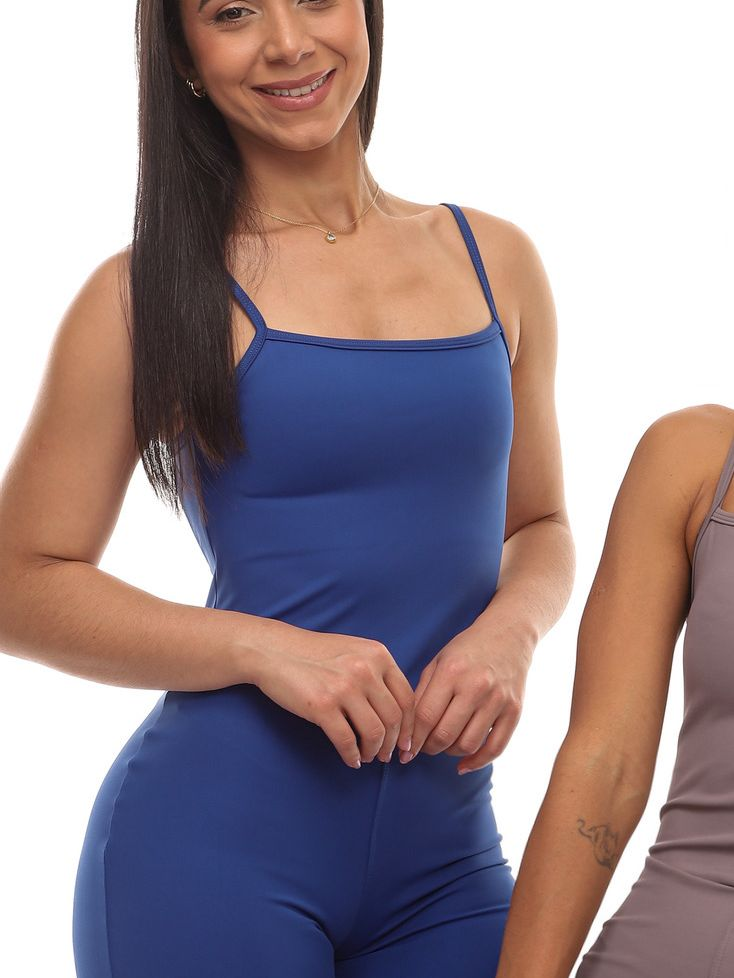
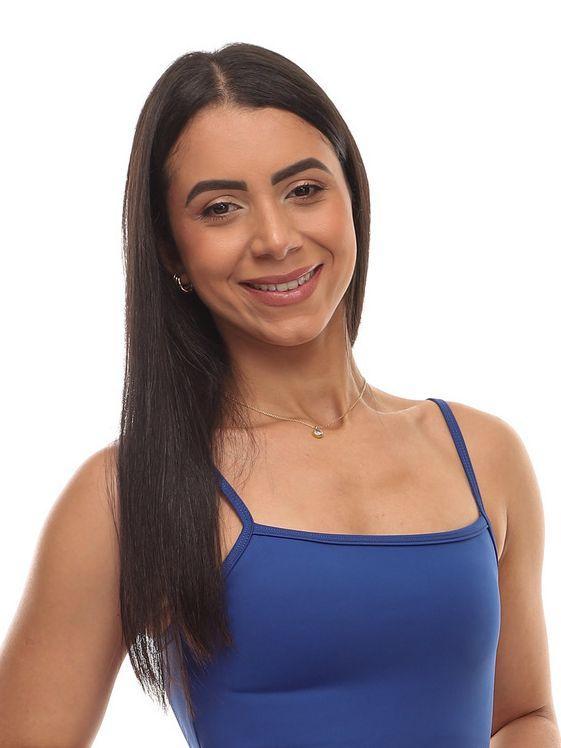
Photo review: keep faces in frame and remove partial second models
- Recrop product photos so every first photo shows the model's face and
  no half of another model (Bloom, Lumi, Legging Sculpt, Top Essential,
  Calça Flare, Shorts Flow/Breeze, Essence); Macacão Curve uses the full
  duo since the models touch in the original
- Category header photos get a separate mobile framing (by the head)
- Blusas category circle shows the face
- Zoom collage: tiles framed by the head, stage starts below the fixed
  header, final frame uses a photo with the face and room for the text
- Smaller WhatsApp button on mobile
- Instagram: replace the book-cover and cut-bag photos
- Nuvemshop kit images updated to match

Claude-Session: https://claude.ai/code/session_01CM8Lr2sgJyQv6W78io8jTd

diff --git a/cavelle/public/assets/css/style.css b/cavelle/public/assets/css/style.css
@@ -868,7 +868,7 @@ body.trava { overflow: hidden; }
   .compra-fixa div { flex: 1; min-width: 0; font-size: 12px; }
   .compra-fixa b { font-weight: 500; display: block; font-size: 13px; }
   .compra-fixa .btn { min-height: 46px; padding: 0 22px; }
-  body.tem-compra-fixa .whats-fixo { bottom: 84px; }
+  body.tem-compra-fixa .whats-fixo { bottom: 80px; }
 
   .rapida { grid-template-columns: 110px 1fr; gap: 16px; }
   .modal { align-items: flex-end; padding: 0; }
@@ -882,7 +882,8 @@ body.trava { overflow: hidden; }
   .resumo-pedido { position: static; order: -1; }
   .campos .c2, .campos .c3, .campos .c4 { grid-column: span 3; }
   .busca__resultados { grid-template-columns: repeat(3, 1fr); gap: 12px; }
-  .whats-fixo { width: 50px; height: 50px; right: 16px; bottom: 16px; }
+  .whats-fixo { width: 44px; height: 44px; right: 12px; bottom: 14px; }
+  .whats-fixo svg { width: 22px; height: 22px; }
 }
 
 @media (max-width: 420px) {
@@ -999,7 +1000,7 @@ body.trava { overflow: hidden; }
   .js .zoom-parallax { display: block; position: relative; height: 300vh; background: var(--bege-claro); --p: 0; }
   .js .lifestyle--alternativa { display: none; }
 }
-.zoom__palco { position: sticky; top: 0; height: 100vh; overflow: hidden; }
+.zoom__palco { position: sticky; top: calc(var(--altura-faixa) + var(--altura-header)); height: calc(100vh - var(--altura-faixa) - var(--altura-header)); overflow: hidden; }
 .zoom__camada {
   position: absolute; inset: 0; display: flex; align-items: center; justify-content: center;
   transform: scale(calc(1 + var(--p) * (var(--k) - 1)));
@@ -1088,11 +1089,12 @@ body.trava { overflow: hidden; }
 }
 .cabeca-pagina--foto .cabeca-pagina__texto p:not(.trilha) { margin-left: 0; }
 .cabeca-pagina__foto { margin: 0; aspect-ratio: 4 / 5; max-height: 520px; overflow: hidden; background: var(--bege); contain: paint; }
-.cabeca-pagina__foto img { width: 100%; height: 100%; object-fit: cover; mix-blend-mode: multiply; }
+.cabeca-pagina__foto img { width: 100%; height: 100%; object-fit: cover; object-position: var(--pos-d, 50% 30%); mix-blend-mode: multiply; }
 @media (max-width: 900px) {
   .cabeca-pagina--foto { grid-template-columns: 1fr; gap: 22px; text-align: center; }
   .cabeca-pagina--foto .cabeca-pagina__texto p:not(.trilha) { margin-left: auto; }
   .cabeca-pagina__foto { order: -1; aspect-ratio: 16 / 10; margin: 0 calc(var(--gutter) * -1); max-height: none; }
+  .cabeca-pagina__foto img { object-position: var(--pos-m, 50% 10%); }
 }
 
 /* ── Quem Somos: abertura dividida, texto e retrato ── */

diff --git a/cavelle/public/index.html b/cavelle/public/index.html
@@ -155,12 +155,12 @@
     <!-- ── BANNER LIFESTYLE: Zoom Parallax (desktop) ─────── -->
     <section class="zoom-parallax" aria-labelledby="t-zoom" data-zoom>
       <div class="zoom__palco">
-        <div class="zoom__camada" style="--k:4"><div class="zoom__img z1"><img src="assets/img/lifestyle/zoom-centro.jpg" alt="Macaquinho Aura rosa com costas abertas" loading="lazy"></div></div>
-        <div class="zoom__camada" style="--k:5"><div class="zoom__img z2"><img src="assets/img/editorial/ed-duo-preto-marrom.jpg" alt="" loading="lazy" style="object-position:50% 28%"></div></div>
+        <div class="zoom__camada" style="--k:4"><div class="zoom__img z1"><img src="assets/img/lifestyle/zoom-centro.jpg" alt="Mulher sentada com camisa branca sobre macaquinho preto CAVELLE" loading="lazy" style="object-position:60% 40%"></div></div>
+        <div class="zoom__camada" style="--k:5"><div class="zoom__img z2"><img src="assets/img/editorial/ed-duo-preto-marrom.jpg" alt="" loading="lazy" style="object-position:50% 6%"></div></div>
         <div class="zoom__camada" style="--k:6"><div class="zoom__img z3"><img src="assets/img/editorial/ed-retrato.jpg" alt="" loading="lazy" style="object-position:50% 20%"></div></div>
         <div class="zoom__camada" style="--k:5"><div class="zoom__img z4"><img src="assets/img/editorial/duo-azul-cinza.jpg" alt="" loading="lazy" style="object-position:50% 32%"></div></div>
         <div class="zoom__camada" style="--k:6"><div class="zoom__img z5"><img src="assets/img/editorial/ed-leitura.jpg" alt="" loading="lazy" style="object-position:50% 30%"></div></div>
-        <div class="zoom__camada" style="--k:8"><div class="zoom__img z6"><img src="assets/img/editorial/duo-leggings.jpg" alt="" loading="lazy" style="object-position:50% 50%"></div></div>
+        <div class="zoom__camada" style="--k:8"><div class="zoom__img z6"><img src="assets/img/editorial/duo-leggings.jpg" alt="" loading="lazy" style="object-position:50% 12%"></div></div>
         <div class="zoom__camada" style="--k:9"><div class="zoom__img z7"><img src="assets/img/produtos/macaquinho-bloom-rosa-1.jpg" alt="" loading="lazy" style="object-position:50% 28%"></div></div>
         <div class="zoom__texto">
           <p class="sobretitulo">CAVELLE</p>

diff --git a/cavelle/public/assets/js/shop.js b/cavelle/public/assets/js/shop.js
@@ -26,21 +26,23 @@
   document.title = `${titulo} | CAVELLE`;
 
   // Foto editorial de cada seção
+  // [imagem, enquadramento no computador, enquadramento no celular (faixa baixa: pela cabeça)]
   const FOTOS = {
-    todos: ['editorial/ed-duo-preto-marrom-45.jpg', '50% 30%'],
-    new: ['editorial/duo-azul-cinza-45.jpg', '50% 35%'],
-    sale: ['editorial/ed-sentada-45.jpg', '60% 50%'],
-    macacoes: ['editorial/duo-marrom-rosa-45.jpg', '50% 35%'],
-    leggings: ['editorial/duo-leggings-45.jpg', '50% 50%'],
-    shorts: ['produtos/shorts-flow-taupe-2.jpg', '50% 40%'],
-    blusas: ['editorial/camiseta-shake-45.jpg', '50% 30%'],
-    acessorios: ['produtos/bolsa-puffer-off-white-1.jpg', '50% 50%'],
+    todos: ['editorial/ed-duo-preto-marrom-45.jpg', '50% 30%', '50% 4%'],
+    new: ['editorial/duo-azul-cinza-45.jpg', '50% 35%', '50% 12%'],
+    sale: ['editorial/ed-sentada-45.jpg', '60% 50%', '60% 18%'],
+    macacoes: ['editorial/duo-marrom-rosa-45.jpg', '50% 35%', '50% 10%'],
+    leggings: ['editorial/duo-leggings-45.jpg', '50% 50%', '50% 12%'],
+    shorts: ['produtos/shorts-flow-taupe-1.jpg', '50% 30%', '50% 6%'],
+    blusas: ['editorial/camiseta-shake-45.jpg', '50% 30%', '50% 6%'],
+    acessorios: ['produtos/bolsa-puffer-off-white-1.jpg', '50% 50%', '50% 55%'],
   };
   const foto = !q && FOTOS[filtro];
   if (foto) {
     const img = $('[data-foto-img]');
     img.src = `assets/img/${foto[0]}`;
-    img.style.objectPosition = foto[1];
+    img.style.setProperty('--pos-d', foto[1]);
+    img.style.setProperty('--pos-m', foto[2]);
     $('[data-foto-cabeca]').hidden = false;
   } else {
     $('[data-cabeca]').classList.remove('cabeca-pagina--foto');

diff --git a/cavelle/public/assets/js/home.js b/cavelle/public/assets/js/home.js
@@ -80,7 +80,7 @@
   $('[data-new-in]').innerHTML = novos.map(card).join('');
 
   // ── Instagram: 6 fotos (como no layout de referência) ──
-  const fotos = [7, 8, 1, 11, 12, 4].map((n) => `assets/img/instagram/ig-${n}.jpg`);
+  const fotos = [9, 8, 1, 11, 12, 13].map((n) => `assets/img/instagram/ig-${n}.jpg`);
   $('[data-insta]').innerHTML = fotos.map((f) => `
     <a href="${CFG.instagram}" target="_blank" rel="noopener" aria-label="Ver no Instagram">
       <img src="${f}" alt="" loading="lazy">${I.instagram}

diff --git a/cavelle/scripts/build-images.py b/cavelle/scripts/build-images.py
@@ -84,23 +84,24 @@ save(crop("banner-4", 0.6, 0.5, 0.55, 4 / 3), "banners/banner-4-m.jpg", 900)
 save(crop("shorts", 0.52, 0.72, 0.62, 1), "categorias/shorts.jpg", 640)
 save(crop("legging", 0.5, 0.6, 0.55, 1), "categorias/leggings.jpg", 640)
 save(crop("macacao", 0.5, 0.3, 0.78, 1), "categorias/macacoes.jpg", 640)  # mostra o rosto
-save(crop("camiseta", 0.48, 0.36, 0.7, 1), "categorias/blusas.jpg", 640)
+save(crop("camiseta", 0.48, 0.3, 0.7, 1), "categorias/blusas.jpg", 640)  # mostra o rosto
 save(crop("bolsa", 0.48, 0.6, 0.9, 1), "categorias/acessorios.jpg", 640)
 
 # ── Produtos (3:4) ───────────────────────────────────────────
 P = 4 / 3
 products = {
-    "macacao-curve-marrom": [crop("banner-2", 0.33, 0.37, 0.52, P), crop("banner-2", 0.34, 0.72, 0.52, P), pad("banner-2", P, (253, 250, 247))],
-    "macacao-curve-preto": [crop("banner-2", 0.6, 0.37, 0.52, P), crop("banner-2", 0.6, 0.72, 0.52, P), pad("banner-2", P, (253, 250, 247))],
+    # As duas modelos se tocam na foto: usar sempre a dupla inteira (sem pedaço de modelo)
+    "macacao-curve-marrom": [crop("banner-2", 0.47, 0.5, 0.95, P), crop("banner-2", 0.47, 0.4, 0.66, P), pad("banner-2", P, (253, 250, 247))],
+    "macacao-curve-preto": [crop("banner-2", 0.47, 0.5, 0.95, P), crop("banner-2", 0.47, 0.4, 0.66, P), pad("banner-2", P, (253, 250, 247))],
     "macaquinho-aura-rosa": [crop("macacao", 0.52, 0.42, 0.78, P), crop("macacao", 0.6, 0.6, 0.6, P), crop("macacao", 0.5, 0.3, 0.5, P)],
-    "macaquinho-essence-preto": [crop("banner-1", 0.62, 0.5, 1, P), crop("banner-1", 0.65, 0.55, 0.28, P), crop("banner-1", 0.42, 0.6, 0.5, P)],
+    "macaquinho-essence-preto": [crop("banner-1", 0.62, 0.5, 1, P), crop("banner-1", 0.65, 0.55, 0.28, P), crop("banner-1", 0.75, 0.45, 0.35, P)],
     "legging-sculpt-marrom": [crop("legging", 0.5, 0.52, 0.92, P), crop("legging", 0.5, 0.66, 0.55, P), crop("legging", 0.48, 0.3, 0.45, P)],
-    "calca-flare-prime-preto": [crop("banner-4", 0.36, 0.5, 0.5, P), pad("banner-4", P), crop("banner-4", 0.62, 0.5, 0.5, P)],
+    "calca-flare-prime-preto": [crop("banner-4", 0.55, 0.5, 0.5, P), crop("banner-4", 0.36, 0.5, 0.5, P), pad("banner-4", P)],
     "cropped-fit-preto": [crop("banner-4", 0.68, 0.34, 0.34, P), crop("banner-4", 0.62, 0.5, 0.5, P), pad("banner-4", P)],
     "top-serena-taupe": [crop("shorts", 0.52, 0.34, 0.7, P), crop("shorts", 0.52, 0.52, 1, P), crop("shorts", 0.5, 0.3, 0.45, P)],
     "top-serena-marrom": [crop("legging", 0.47, 0.3, 0.42, P), crop("legging", 0.5, 0.52, 0.92, P)],
-    "shorts-flow-taupe": [crop("shorts", 0.52, 0.7, 0.7, P), crop("shorts", 0.52, 0.52, 1, P), crop("shorts", 0.55, 0.68, 0.4, P)],
-    "shorts-breeze-cinza": [crop("banner-3", 0.42, 0.78, 0.62, P), crop("camiseta", 0.47, 0.78, 0.5, P), crop("banner-3", 0.5, 0.45, 1, P)],
+    "shorts-flow-taupe": [crop("shorts", 0.52, 0.52, 1, P), crop("shorts", 0.52, 0.7, 0.7, P), crop("shorts", 0.55, 0.68, 0.4, P)],
+    "shorts-breeze-cinza": [crop("banner-3", 0.5, 0.47, 1, P), crop("banner-3", 0.42, 0.78, 0.62, P), crop("camiseta", 0.47, 0.78, 0.5, P)],
     "camiseta-oversized-rosa": [crop("camiseta", 0.5, 0.48, 1, P), crop("camiseta", 0.47, 0.34, 0.5, P), crop("banner-3", 0.5, 0.45, 1, P)],
     "bolsa-puffer-off-white": [crop("bolsa", 0.5, 0.5, 1, P), crop("bolsa", 0.47, 0.62, 0.5, P), crop("bolsa", 0.5, 0.36, 0.72, P)],
 }
@@ -113,7 +114,7 @@ save(crop("macacao", 0.52, 0.45, 0.9, P), "lifestyle/lifestyle-1.jpg", 1000)
 save(crop("legging", 0.5, 0.52, 0.92, P), "lifestyle/lifestyle-2.jpg", 1000)
 
 # ── Zoom Parallax da home (imagem central que ocupa a tela) ──
-save(crop("macacao", 0.5, 0.42, 1, 10 / 16), "lifestyle/zoom-centro.jpg", 1600, 84)
+save(crop("ed-sentada-camisa", 0.5, 0.38, 1, 10 / 16), "lifestyle/zoom-centro.jpg", 1600, 84)
 
 # ── Grade do Instagram (quadradas) ───────────────────────────
 save(crop("banner-1", 0.6, 0.45, 0.62, 1), "instagram/ig-1.jpg", 600)
@@ -140,22 +141,22 @@ P45 = 5 / 4
 # ── Produtos novos e fotos extras ────────────────────────────
 novos = {
     # Macaquinho Bloom — manga curta, decote quadrado
-    "macaquinho-bloom-rosa": [crop("macaquinho-rosa", 0.5, 0.5, 1, P), crop("macaquinho-rosa", 0.47, 0.4, 0.55, P), crop("duo-marrom-rosa", 0.62, 0.4, 0.5, P)],
-    "macaquinho-bloom-marrom": [crop("duo-marrom-rosa-costas", 0.3, 0.4, 0.5, P), crop("duo-marrom-rosa", 0.37, 0.42, 0.5, P), crop("ed-duo-preto-marrom", 0.41, 0.62, 0.52, P)],
-    "macaquinho-bloom-preto": [crop("ed-duo-preto-marrom", 0.62, 0.33, 0.46, P), crop("ed-duo-preto-marrom", 0.5, 0.5, 1, P)],
+    "macaquinho-bloom-rosa": [crop("macaquinho-rosa", 0.5, 0.5, 1, P), crop("macaquinho-rosa", 0.47, 0.38, 0.6, P), crop("duo-marrom-rosa", 0.5, 0.5, 1, P)],
+    "macaquinho-bloom-marrom": [crop("duo-marrom-rosa-costas-2", 0.26, 0.235, 0.42, P), crop("ed-duo-preto-marrom", 0.5, 0.5, 1, P), crop("duo-marrom-rosa", 0.5, 0.5, 1, P)],
+    "macaquinho-bloom-preto": [crop("ed-duo-preto-marrom", 0.635, 0.2, 0.36, P), crop("ed-duo-preto-marrom", 0.5, 0.5, 1, P)],
     # Macaquinho Lumi — alças finas
-    "macaquinho-lumi-cinza": [crop("macaquinho-cinza", 0.5, 0.48, 1, P), crop("duo-azul-cinza", 0.66, 0.5, 0.55, P), crop("macaquinho-cinza", 0.52, 0.42, 0.6, P)],
-    "macaquinho-lumi-azul": [crop("duo-azul-cinza", 0.27, 0.42, 0.55, P), crop("duo-azul-cinza", 0.5, 0.47, 1, P)],
+    "macaquinho-lumi-cinza": [crop("macaquinho-cinza", 0.5, 0.48, 1, P), crop("duo-azul-cinza", 0.7, 0.385, 0.46, P), crop("macaquinho-cinza", 0.52, 0.42, 0.6, P)],
+    "macaquinho-lumi-azul": [crop("duo-azul-cinza", 0.22, 0.265, 0.42, P), crop("duo-azul-cinza", 0.5, 0.47, 1, P)],
     # Top Essential
-    "top-essential-preto": [crop("duo-leggings", 0.3, 0.33, 0.42, P), crop("duo-leggings", 0.5, 0.52, 1, P)],
+    "top-essential-preto": [crop("duo-leggings", 0.26, 0.33, 0.4, P), crop("duo-leggings", 0.5, 0.52, 1, P)],
     "top-essential-marrom": [crop("duo-leggings", 0.67, 0.33, 0.42, P), crop("duo-leggings", 0.5, 0.52, 1, P)],
     # Fotos extras de produtos existentes
-    "legging-sculpt-preto": [crop("duo-leggings", 0.28, 0.56, 0.55, P), crop("duo-leggings", 0.5, 0.52, 1, P)],
+    "legging-sculpt-preto": [crop("duo-leggings", 0.25, 0.355, 0.44, P), crop("duo-leggings", 0.5, 0.52, 1, P)],
 }
 for slug, imgs in novos.items():
     for i, im in enumerate(imgs, 1):
         save(im, f"produtos/{slug}-{i}.jpg", 900)
-save(crop("duo-leggings", 0.66, 0.56, 0.5, P), "produtos/legging-sculpt-marrom-4.jpg", 900)
+save(crop("duo-leggings", 0.68, 0.56, 0.42, P), "produtos/legging-sculpt-marrom-4.jpg", 900)
 save(crop("duo-marrom-rosa-costas", 0.68, 0.56, 0.55, P), "produtos/macaquinho-aura-rosa-4.jpg", 900)
 save(crop("duo-marrom-rosa-costas-2", 0.58, 0.62, 0.55, P), "produtos/macaquinho-aura-rosa-5.jpg", 900)
 save(crop("camiseta-shake", 0.5, 0.45, 1, P), "produtos/camiseta-oversized-rosa-4.jpg", 900)
